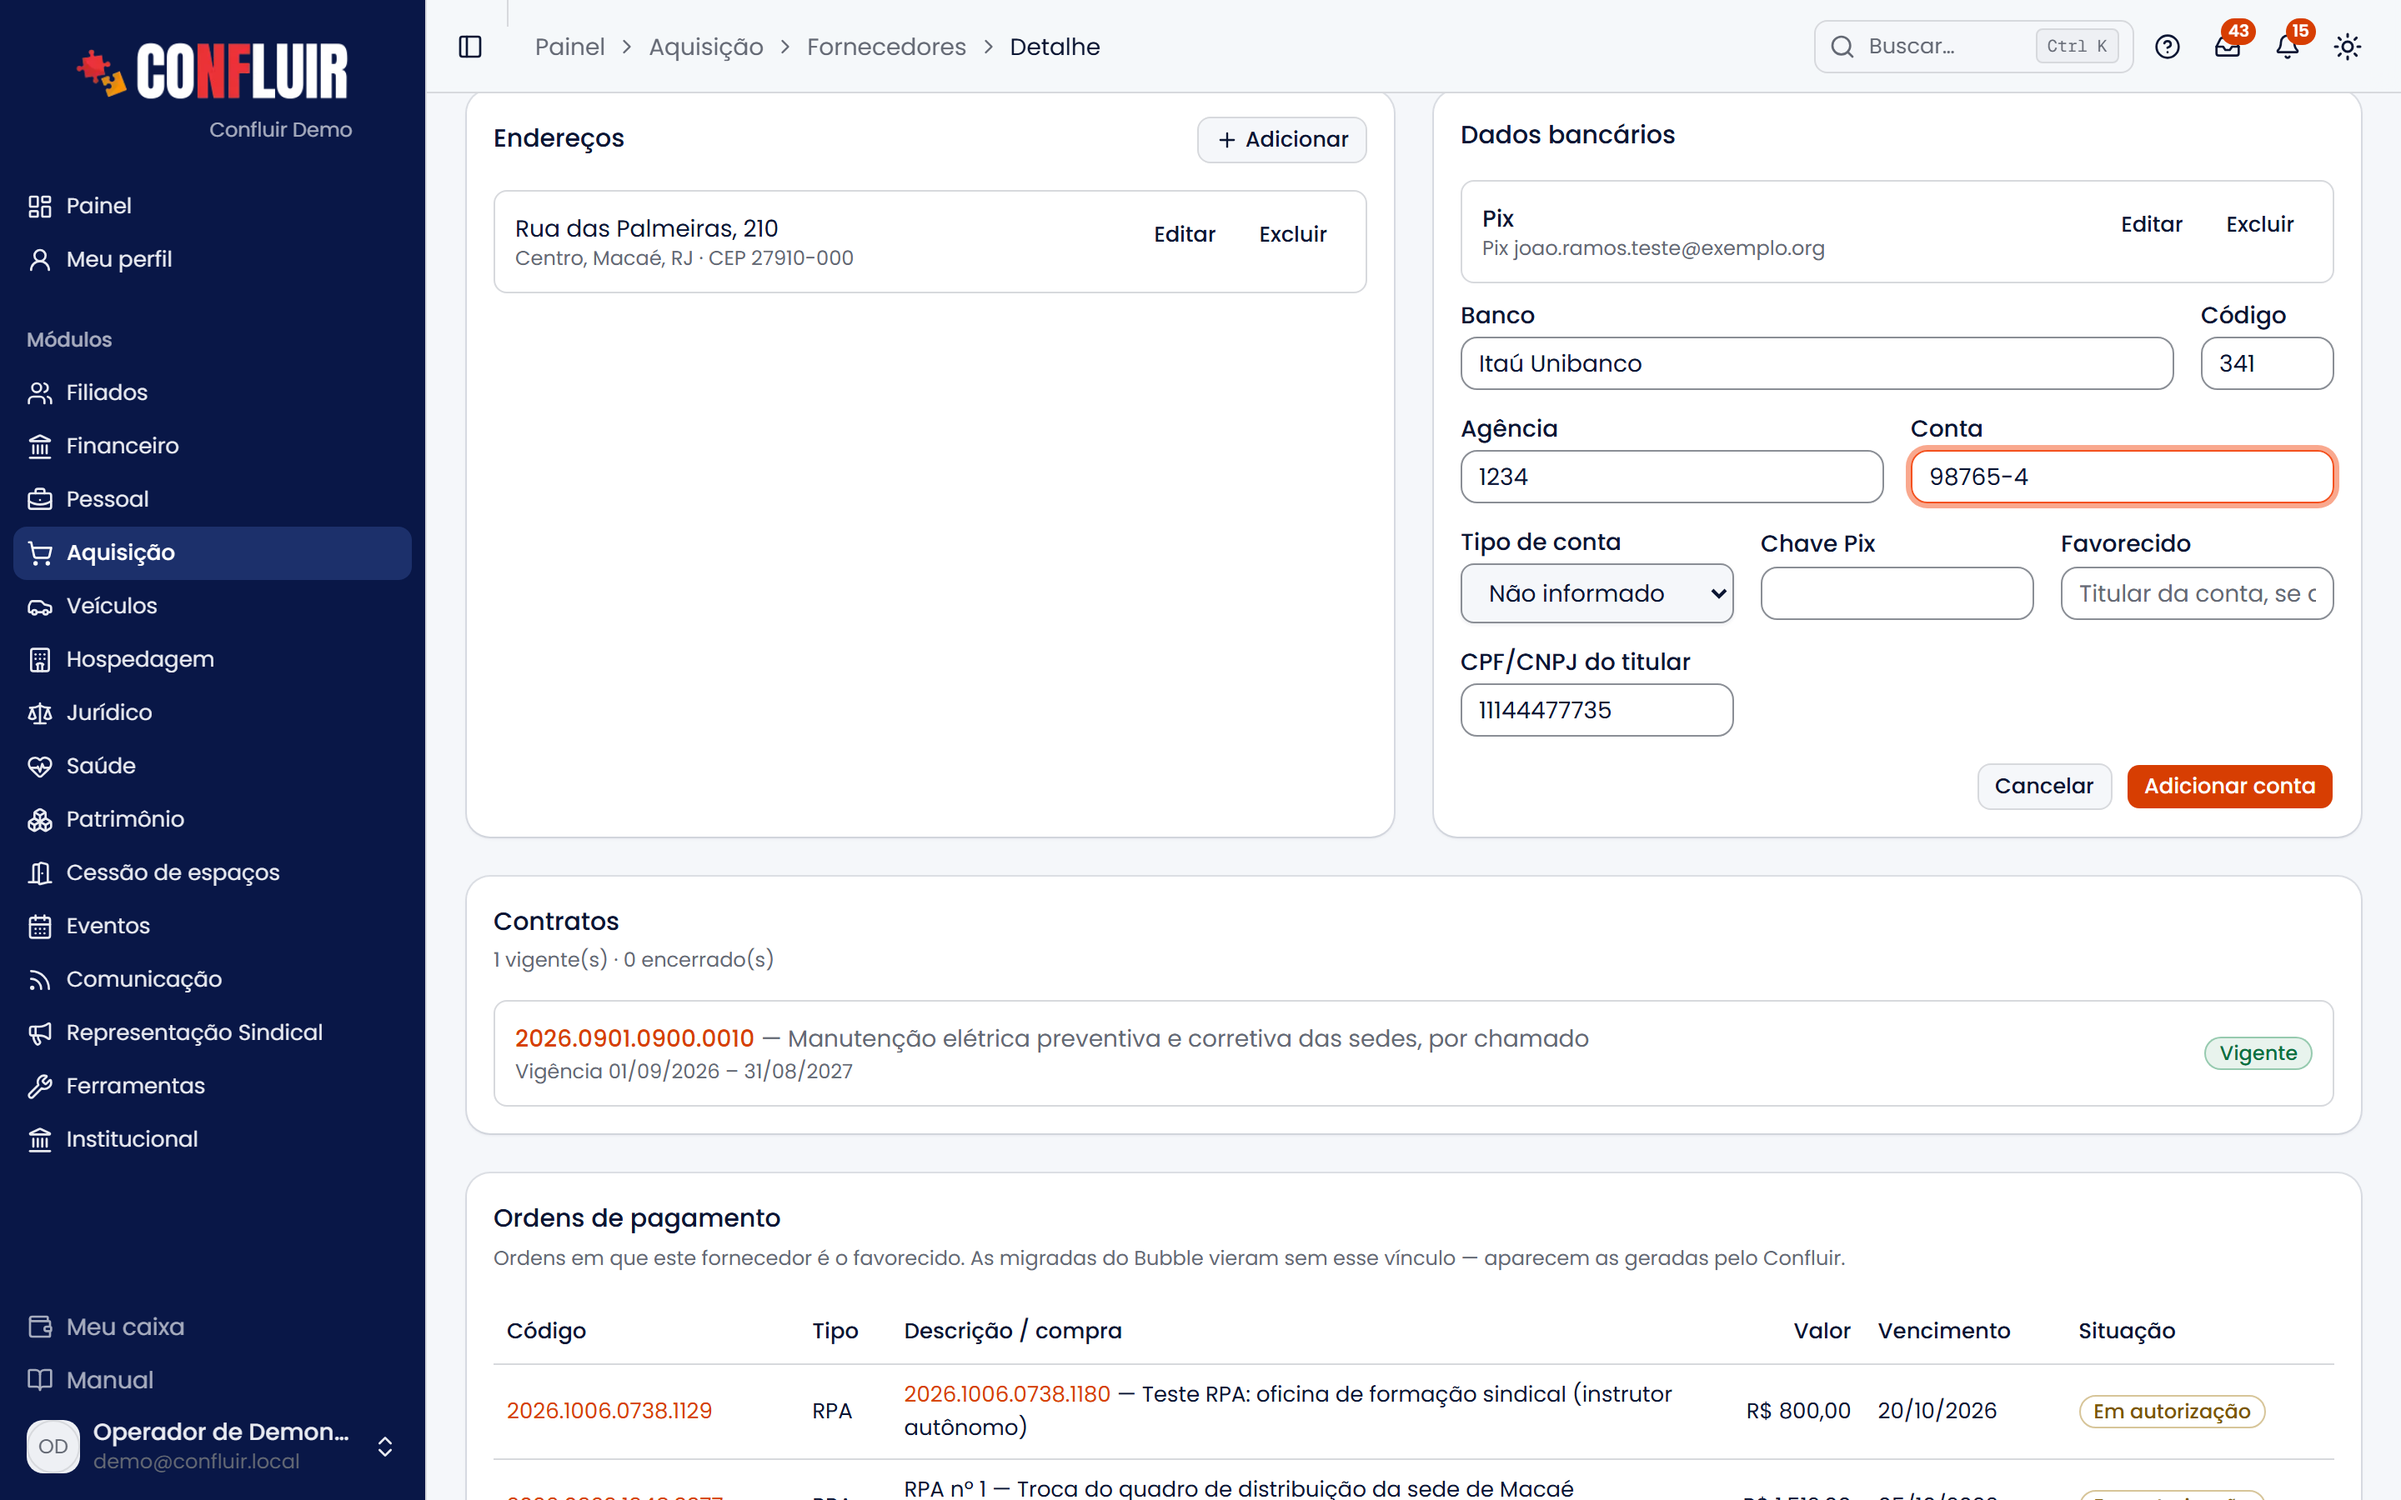
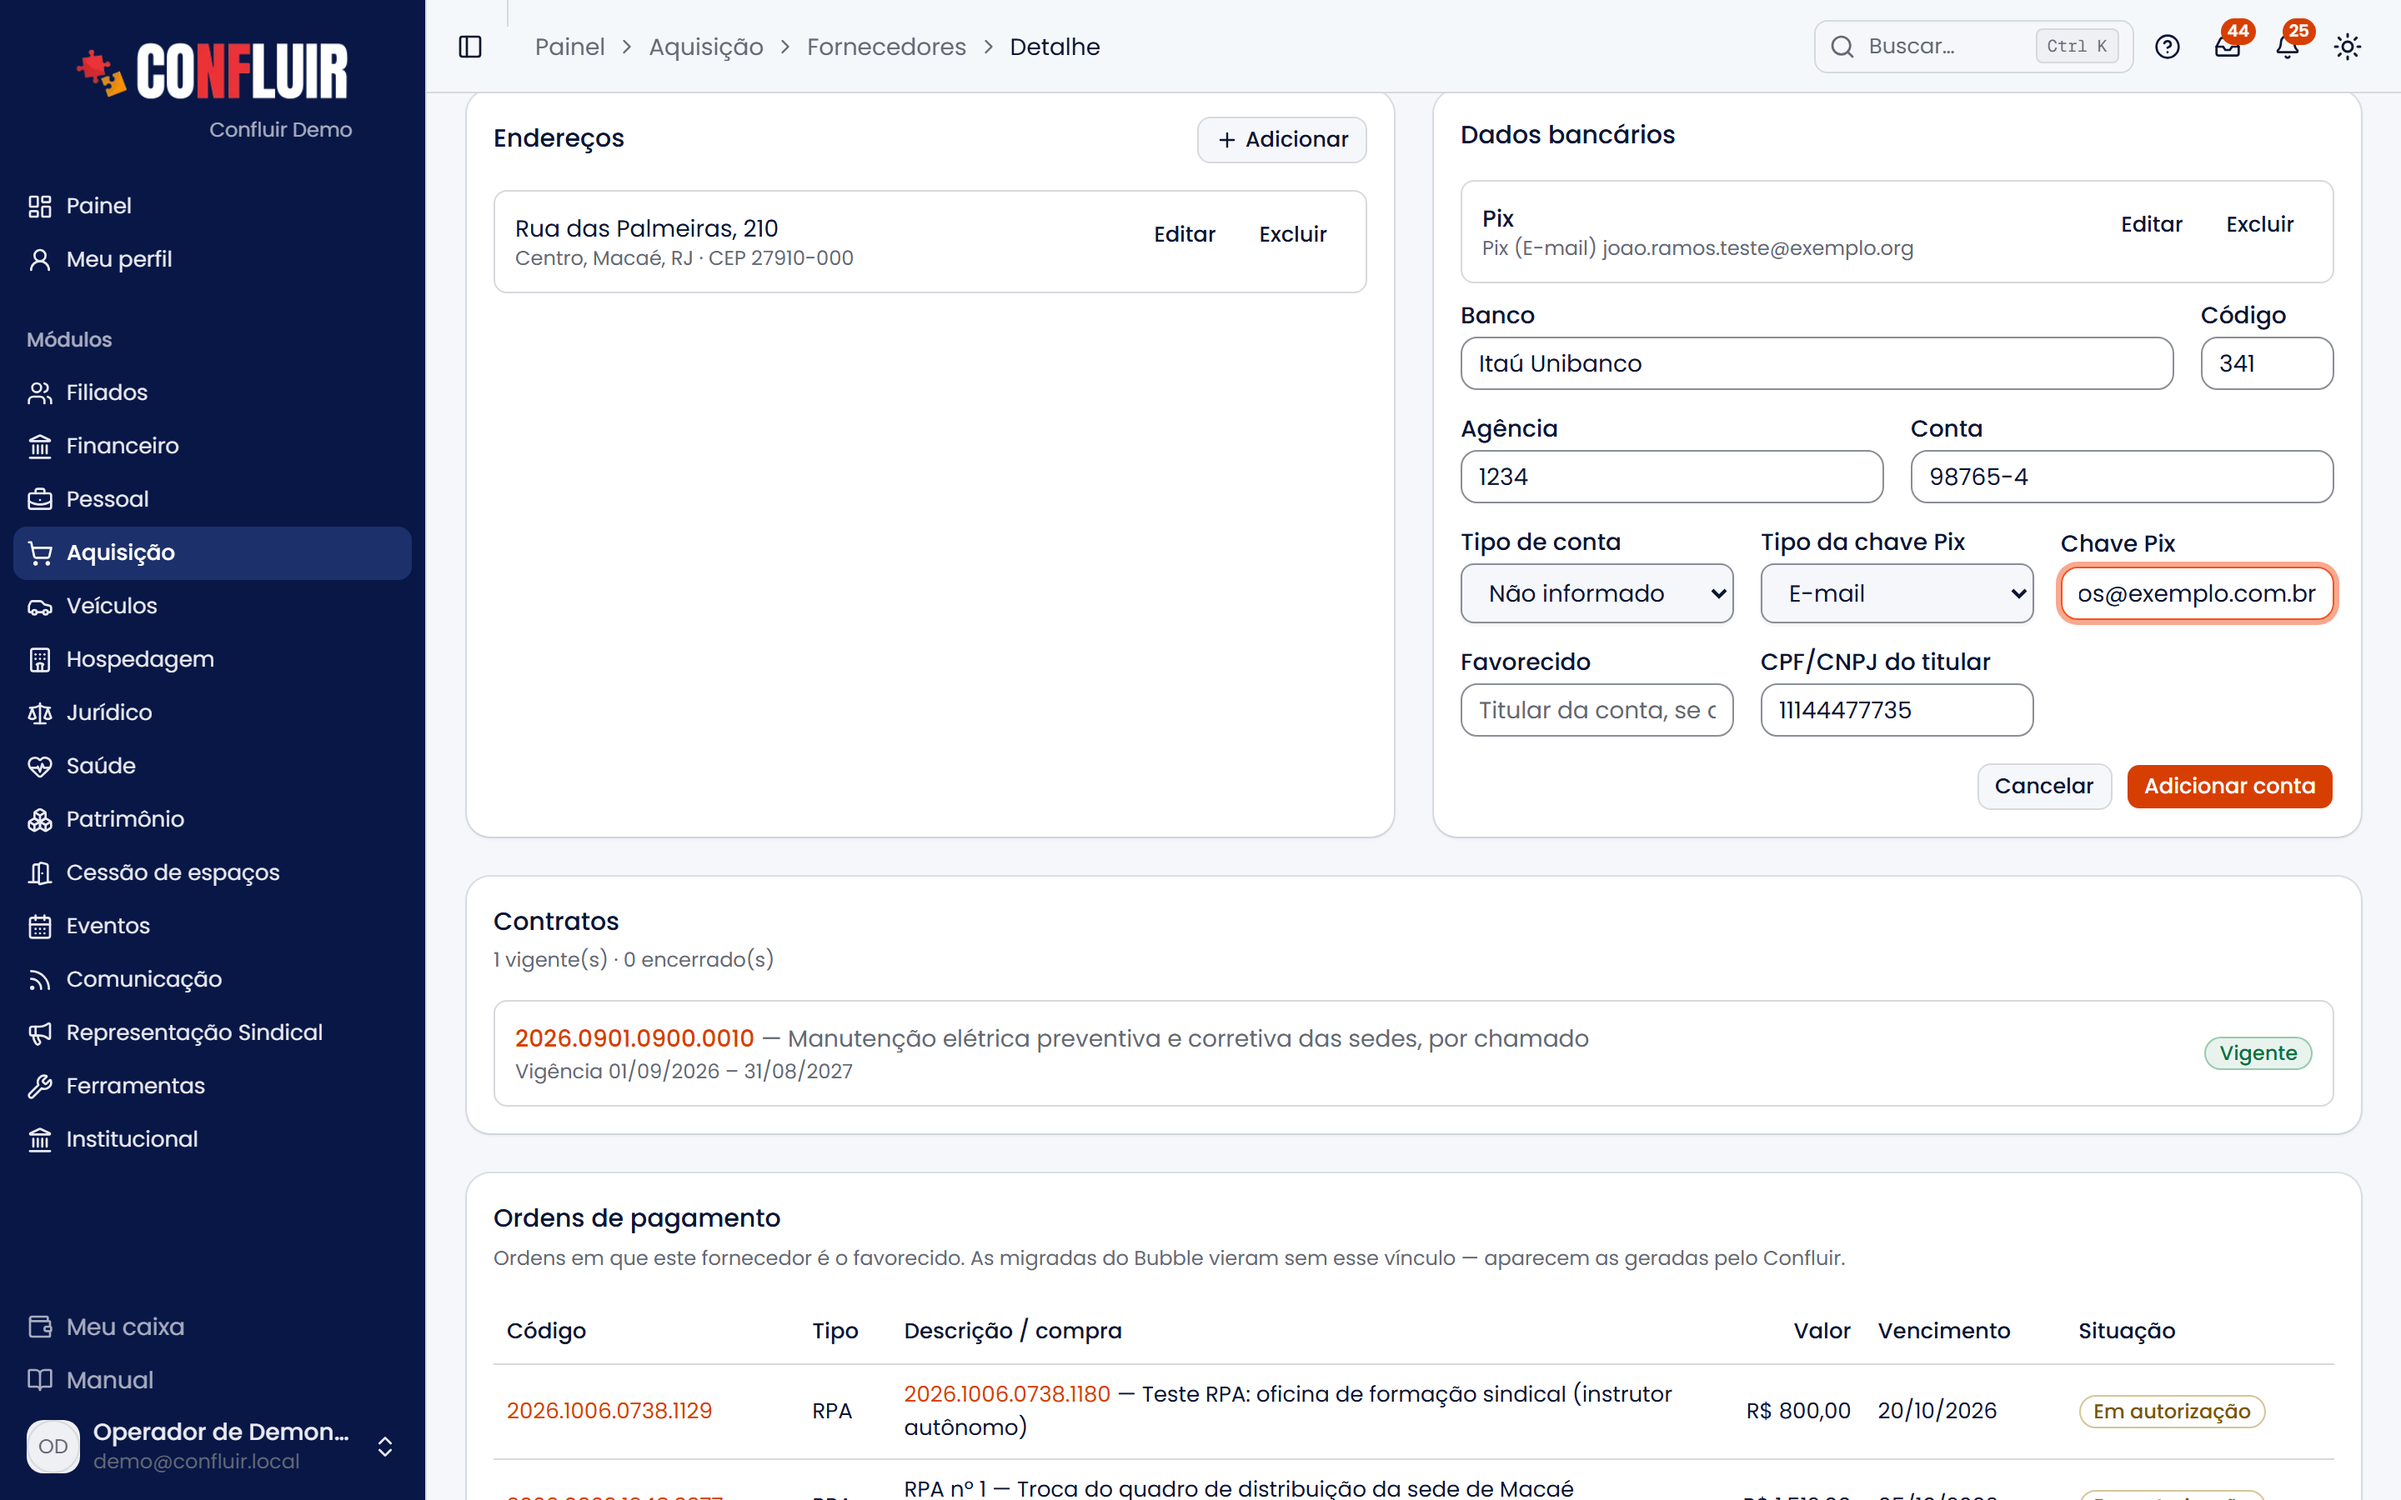
Fornecedores: tipo da chave Pix na conta, conferido ao salvar
Também lê o código do banco na conta das entidades apoiadas.

diff --git a/src/lib/db/fornecedores.ts b/src/lib/db/fornecedores.ts
@@ -14,7 +14,8 @@ import { esquemaAusente } from "@/lib/db/comum"
 import { ligarOrdensSemForma } from "@/lib/db/ordens-destino"
 import { avisoRepetida, dadoRepetido } from "@/lib/db/dados-bancarios-repetida"
 import { donosDaPessoa } from "@/lib/db/dados-bancarios-pessoa"
-import { normalizarBanco, validarAgencia, validarConta } from "@/lib/bancos"
+import { normalizarBanco, validarAgencia, validarChavePix, validarConta } from "@/lib/bancos"
+import { TIPOS_CHAVE_PIX } from "@/lib/contracheques-constantes"
 
 /**
  * Fornecedores — cadastro completo sobre linhas de `empresa`, com:
@@ -69,6 +70,8 @@ export type ContaBancaria = {
   conta: string | null
   tipo_conta: string | null
   pix: string | null
+  /** Tipo da chave Pix (TIPOS_CHAVE_PIX). */
+  pix_tipo?: string | null
   favorecido: string | null
   titular_documento?: string | null
 }
@@ -243,6 +246,7 @@ export async function buscarFornecedor(
           conta: (x.conta as string | null) ?? null,
           tipo_conta: (x.tipo_conta as string | null) ?? null,
           pix: (x.pix as string | null) ?? null,
+          pix_tipo: (x.pix_tipo as string | null) ?? null,
           favorecido: (x.favorecido as string | null) ?? null,
         })),
     contratosVigentes: contratos.filter((c) => c.vigente),
@@ -862,6 +866,8 @@ export type DadosConta = {
   conta: string | null
   tipo_conta: string | null
   pix: string | null
+  /** Tipo da chave Pix (TIPOS_CHAVE_PIX); obrigatório quando há chave. */
+  pix_tipo?: string | null
   favorecido: string | null
   /** CPF/CNPJ do titular como digitado; vazio = não informado. */
   titular_documento?: string | null
@@ -883,8 +889,26 @@ export async function salvarConta(
   if (agencia.erro) return { erro: agencia.erro }
   const numero = validarConta(dados.conta)
   if (numero.erro) return { erro: numero.erro }
+  // Chave Pix com o tipo, conferida e padronizada como no Pix da compra.
+  let pix: string | null = null
+  let pixTipo: string | null = null
+  if (dados.pix?.trim()) {
+    pixTipo = (TIPOS_CHAVE_PIX as readonly string[]).includes(dados.pix_tipo ?? "") ? dados.pix_tipo! : null
+    if (!pixTipo) return { erro: "Escolha o tipo da chave Pix." }
+    const conferida = validarChavePix(pixTipo, dados.pix)
+    if (conferida.erro) return { erro: conferida.erro }
+    pix = conferida.valor
+  }
   const banco = normalizarBanco(dados.banco, dados.banco_codigo)
-  const linha = { ...dados, banco: banco.banco, banco_codigo: banco.codigo, agencia: agencia.valor, conta: numero.valor }
+  const linha = {
+    ...dados,
+    pix,
+    pix_tipo: pixTipo,
+    banco: banco.banco,
+    banco_codigo: banco.codigo,
+    agencia: agencia.valor,
+    conta: numero.valor,
+  }
   const repetida = await dadoRepetido(await donosDaPessoa("fornecedor", fornecedorId), linha, contaId ?? null)
   if (repetida) return { erro: avisoRepetida(repetida, "fornecedor") }
   const admin = await createAdminClient()

diff --git a/src/lib/novidades.ts b/src/lib/novidades.ts
@@ -19,6 +19,7 @@ export const NOVIDADES: Novidade[] = [
       "Congressos e conferências: página pública de inscrição. A pessoa escolhe como vai participar e a base, a regra de vagas é aplicada na hora (confirmada ou lista de espera) e ela recebe um link pessoal para acompanhar a situação e o programa, sem criar conta.",
       "Congressos: link pessoal também para quem a comissão incluiu, com cópia ou envio por e-mail. Gerar um novo invalida o anterior.",
       "Congressos: importar participantes de uma planilha (Nome, CPF, Base, Condição…) ou de uma ata em PDF ou foto, lida pela IA. Tudo passa por conferência antes de gravar: novos, já no congresso e linhas com problema.",
+      "Fornecedores: a chave Pix da conta agora vai com o tipo (CNPJ / CPF, Telefone, E-mail ou Chave aleatória) e é conferida pelo tipo ao salvar. Em conta antiga, o tipo provável já vem escolhido na edição.",
       "Aquisição: ao gerar a ordem de pagamento de uma compra, inclua uma observação (ex.: \"50% do valor total, referente à antecipação do serviço\"). Ela vai na descrição da ordem e aparece na lista, na autorização e no extrato.",
       "Acesso: o link de criar ou redefinir senha não se perde mais quando é enviado pelo WhatsApp — ele só é usado quando a pessoa salva a senha. E acabou o \"não foi possível confirmar que você não é um robô\" ao ir da tela de entrada para \"Esqueci minha senha\".",
     ],

diff --git a/src/app/painel/compras/fornecedores/fornecedor-forms.tsx b/src/app/painel/compras/fornecedores/fornecedor-forms.tsx
@@ -35,6 +35,8 @@ import {
 } from "./actions"
 import { confirmarEnvio } from "@/components/ui/confirmacao"
 import { useEnvioFormulario } from "@/hooks/use-envio-formulario"
+import { deduzirTipoPix } from "@/lib/bancos"
+import { TIPOS_CHAVE_PIX } from "@/lib/contracheques-constantes"
 
 const SELECT =
   "border-input bg-background text-foreground h-9 w-full truncate rounded-md border px-3 text-sm shadow-xs outline-none [color-scheme:light] dark:[color-scheme:dark]"
@@ -593,6 +595,22 @@ export function ContaForm({
           >
             <option value="">Não informado</option>
             {TIPOS_CONTA.map((t) => (
+              <option key={t} value={t}>
+                {t}
+              </option>
+            ))}
+          </select>
+        </div>
+        <div className="grid gap-1.5">
+          <Label htmlFor="cb-pix-tipo">Tipo da chave Pix</Label>
+          <select
+            id="cb-pix-tipo"
+            name="pix_tipo"
+            className={SELECT}
+            defaultValue={conta?.pix_tipo ?? deduzirTipoPix(conta?.pix) ?? ""}
+          >
+            <option value="">Sem chave Pix</option>
+            {TIPOS_CHAVE_PIX.map((t) => (
               <option key={t} value={t}>
                 {t}
               </option>

diff --git a/src/lib/bancos.ts b/src/lib/bancos.ts
@@ -168,3 +168,21 @@ export function contaConferida(c: { conferida_em?: unknown; conferida_titular?: 
   if (!c?.conferida_em) return false
   return c.conferida_titular === assinaturaTitular(c.titular_documento, c.favorecido)
 }
+
+/**
+ * Tipo provável de uma chave Pix gravada sem o tipo (cadastros antigos):
+ * só para vir pré-escolhido na edição, quem salva confere. Onze dígitos que
+ * formam um CPF válido contam como CPF; senão, como telefone.
+ */
+export function deduzirTipoPix(chave: string | null | undefined): "CNPJ / CPF" | "Telefone" | "E-mail" | "Chave aleatória" | null {
+  const s = (chave ?? "").trim()
+  if (!s) return null
+  if (s.includes("@")) return "E-mail"
+  if (/^[0-9a-f]{8}-?[0-9a-f]{4}-?[0-9a-f]{4}-?[0-9a-f]{4}-?[0-9a-f]{12}$/i.test(s)) return "Chave aleatória"
+  const d = s.replace(/\D/g, "")
+  if (s.startsWith("+")) return "Telefone"
+  if (d.length === 14) return "CNPJ / CPF"
+  if (d.length === 11 && validarCpf(d)) return "CNPJ / CPF"
+  if (d.length === 10 || d.length === 11 || (d.length >= 12 && d.length <= 13 && d.startsWith("55"))) return "Telefone"
+  return null
+}

diff --git a/src/app/painel/institucional/ajudas/entidades/actions.ts b/src/app/painel/institucional/ajudas/entidades/actions.ts
@@ -149,10 +149,12 @@ export async function salvarContaEntidadeAction(
     entidadeId,
     {
       banco: ouNull(texto(formData, "banco")),
+      banco_codigo: ouNull(texto(formData, "banco_codigo").replace(/\D/g, "")),
       agencia: ouNull(texto(formData, "agencia")),
       conta: ouNull(texto(formData, "conta")),
       tipo_conta: ouNull(texto(formData, "tipo_conta")),
       pix: ouNull(texto(formData, "pix")),
+      pix_tipo: ouNull(texto(formData, "pix_tipo")),
       favorecido: ouNull(texto(formData, "favorecido")),
       titular_documento: texto(formData, "titular_documento"),
     },

diff --git a/src/app/painel/institucional/ajudas/entidades/[id]/page.tsx b/src/app/painel/institucional/ajudas/entidades/[id]/page.tsx
@@ -385,7 +385,7 @@ export default async function EntidadeApoiadaPage({
                       {[
                         c.agencia && `ag. ${c.agencia}`,
                         c.conta && `conta ${c.conta}`,
-                        c.pix && `Pix ${c.pix}`,
+                        c.pix && `Pix${c.pix_tipo ? ` (${c.pix_tipo})` : ""} ${c.pix}`,
                         c.favorecido && `favorecido ${c.favorecido}`,
                       ]
                         .filter(Boolean)

diff --git a/src/app/painel/compras/fornecedores/[id]/page.tsx b/src/app/painel/compras/fornecedores/[id]/page.tsx
@@ -679,7 +679,7 @@ export default async function FornecedorPage({
                       {[
                         c.agencia && `ag. ${c.agencia}`,
                         c.conta && `conta ${c.conta}`,
-                        c.pix && `Pix ${c.pix}`,
+                        c.pix && `Pix${c.pix_tipo ? ` (${c.pix_tipo})` : ""} ${c.pix}`,
                         c.favorecido && `favorecido ${c.favorecido}`,
                       ]
                         .filter(Boolean)

diff --git a/src/app/painel/compras/fornecedores/actions.ts b/src/app/painel/compras/fornecedores/actions.ts
@@ -207,6 +207,7 @@ export async function salvarContaAction(
       conta: ouNull(texto(formData, "conta")),
       tipo_conta: ouNull(texto(formData, "tipo_conta")),
       pix: ouNull(texto(formData, "pix")),
+      pix_tipo: ouNull(texto(formData, "pix_tipo")),
       favorecido: ouNull(texto(formData, "favorecido")),
       titular_documento: texto(formData, "titular_documento"),
     },
